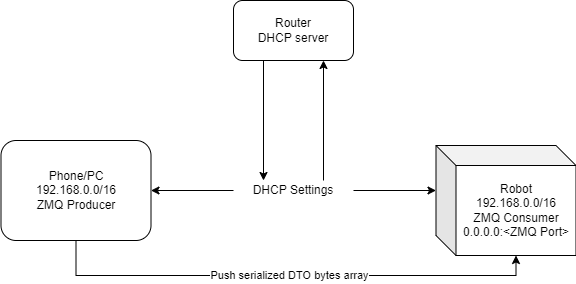
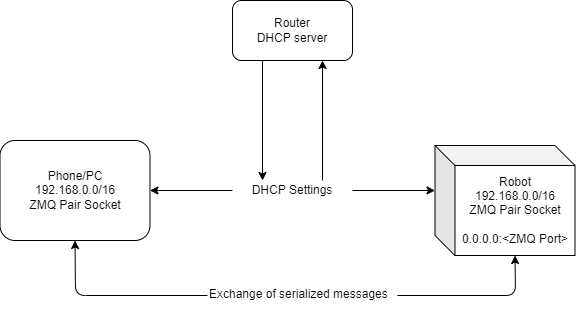
Update readme

diff --git a/Platform/Robot.cs b/Platform/Robot.cs
@@ -130,8 +130,6 @@ public class Robot : IDisposable
     /// <param name="e"></param>
     private void OnReceiveReady(object? sender, NetMQSocketEventArgs e)
     {
-        _logger?.Debug($"<Platform::OnReceiveReady>: Started listener");
-        
         var messageStatus = e.Socket.TryReceiveFrameBytes(out var receiveBytes);
         if (!messageStatus)
         {

diff --git a/readme.md b/readme.md
@@ -1,66 +1,55 @@
-# My robotics-pet project
-# Управление
-Управление роботом производится мобильного устройства  посредством использования гироскопа (в текущей реализации телефон на Android (Redmi 9))  
+# Robotics/IOT .NET Core
 
-Ввиду технических особенностей джойстика (данные с потенциометров по осям X и Y могут принимать значения от 0 до 1023), необходимо производить корреляцию данных с гироскопа мобильного устройства (значения от -1 до 1)
-```csharp 
-Vector2 GyroscopeToJoystickConversion(Vector2 gyroPos) {
-    // x from -1.0 - 0.5 - 1.0
-    // X from 0 - 511 - 1023
-    const float joyZeroEmulation = 511.5f; 
+## Дисклеймер
 
-    var x = joyZeroEmulation * gyroPos.X + (gyroPos.X > 0 ? gyroPos.X : -gyroPos.X);
-    var y = joyZeroEmulation * gyroPos.Y + (gyroPos.Y > 0 ? gyroPos.Y : -gyroPos.Y);
-
-    return new Vector2(x, y);
-}
-```
 ___
-# Взаимодействие
-1. Роутер является DHPC-сервером.  
-2. Поиск ботов идет посредством протокола SSDP на манипуляторе пользователя (Необходимо нахождение устройств в одной сети).  
-    2.1 Подключение к устройству идет по заранее определеленному константному порту.  
-3. На устройстве-манипуляторе есть обработчик событий коннекта и дисконнекта  
+## Используемые библиотеки и приложения
 
-![Communication scheme](./images/communication.png)
+| Наименование | Применение |
+|--|--|
+| **Библиотеки** |
+|[MessagePack](https://msgpack.org/) | Используется для сериализации/десериализации сообщений между клиентом и роботом |  
+|[Serilog](https://serilog.net/) | Используется для логирования информации и сохранения ее в базу данных |    
+|[LiteDB](https://www.litedb.org/) | NoSQL-хранилище для хранения логов |  
+|[System.Device.GPIO](https://learn.microsoft.com/ru-ru/dotnet/iot/) | Библиотека для работы с IOT |  
+|[NetMQ](https://netmq.readthedocs.io/en/latest/) | Библиотека для работы с библиотекой [ZeroMQ](https://zeromq.org/). Используется для TCP-сокетов |  
+|[nanoFramework](https://www.nanoframework.net/) | Библиотека для написания кода на C# для IOT |  
+| **Приложения** |
+| [LiteDB.Studio](https://github.com/mbdavid/LiteDB.Studio) | Приложение для просмотра и редактирования LiteDB |
 
-![Communication](./images/push-pull.png)
+___
+## Общая схема работы проекта
 
-## Модель взаимодействия
+![scheme](./images/scheme.png)
 
-1. Передача и получение трафика производятся с использованием [ZeroMQ](https://zeromq.org/) по протоколу **Push/Pull**  
-2. Сериализация и десериализация сообщений производится с использованием [MessagePack](https://msgpack.org/)  
-3. Общая DTO-модель 
+0. *Робот* подключается к WiFi и получает сетевые настройки.
+1. Пользователь *Master* подключается к WiFi сетевые настройки.  
+2. Пользователь *Master* запускает приложение для установления сетевого соединения с роботом. В приложении:  
+    2.1 Производится станирование сети  
+    2.2 В случае успешного нахождения устройства, производится подключение к нему  
+3. После успешного установления сетевого соединения идет обмен данными в режиме реального времени и логирование данных в [*черный ящик*](https://ru.wikipedia.org/wiki/%D0%91%D0%BE%D1%80%D1%82%D0%BE%D0%B2%D0%BE%D0%B9_%D1%81%D0%B0%D0%BC%D0%BE%D0%BF%D0%B8%D1%81%D0%B5%D1%86)
 
-```csharp
-public class TransportDto {
-    public Vector2 Vector2 { get; set; }
-    public string PressedKeys { get; set; }
-}
+### Хранение данных 
+В качестве системы хранения данных (логирование), используется NoSQL-хранилище (*[LiteDB](https://www.litedb.org/)*)  
 
-public class Vector2 {
-    public float X { get; set; }
-    public float Y { get; set; }
+Суммарно, хранится **три сессии** данных, остальные удаляются ввиду отсутствия какой-либо необходимости и с целью сохранить память на MicroSD.  
+___
+## Схема взаимодействия 
+![communication](./images/communication.png)
 
-    public Vector2(float x, float y) {
-        X = x;
-        Y = y;
-    }
-}
-```
-> **X** - Координаты смещения по X-оси (поворот).  
->> *511* - zero point  
->> *1023* - max right  
->> *0* - max left  
+Передача и получение трафика производятся с использованием [ZeroMQ](https://zeromq.org/) с использованием **Pair Socket**   
+> В предыдущей версии использовался принцип *Pull/Push*, где в роли получающего был непосредственно робот, но, ввиду того, что я решил направлять данные в обе стороны, было принято отказаться от данного подхода  
 
-> **Y** - Координаты смещения по Y-оси (вперед - назад).  
->> *511* - zero point  
->> *1023* - max acceleration  
->> *0* - reverse acceleration  
+Отправляемые клиентом и получаемые данные роботом должны быть представлены [сериализованной моделью](./Platform/Models/InputControllerModel.cs)  
 
-> **Pressed keys** - нажатые в текущий момент времени клавиши  
->> Message format: Z|X|C|V|B|N|M;  
->> *|* - delimiter  
+Отправляемые данные роботом получаемые данные клиентом должны быть представленны [сериализованной моделью](./Platform/Models/RoboDataModel.cs)  
 
+Пример данных, которые получает робот и преобразовывает в действие:  
+![action](./images/messagepack.png)  
+___
+## TODO List
 
-![Пример сжатия](./images/messagepack.png)
+- [ ] Портировать код на Raspberry Pi 3  
+- [ ] Написать приложение для управления роботом  
+- [ ] Настроить двунаправленную передачу реальных, а не тестовых данных  
+- [ ] Подключить модули управления к GPIO И настроить подключение их к платформе  
